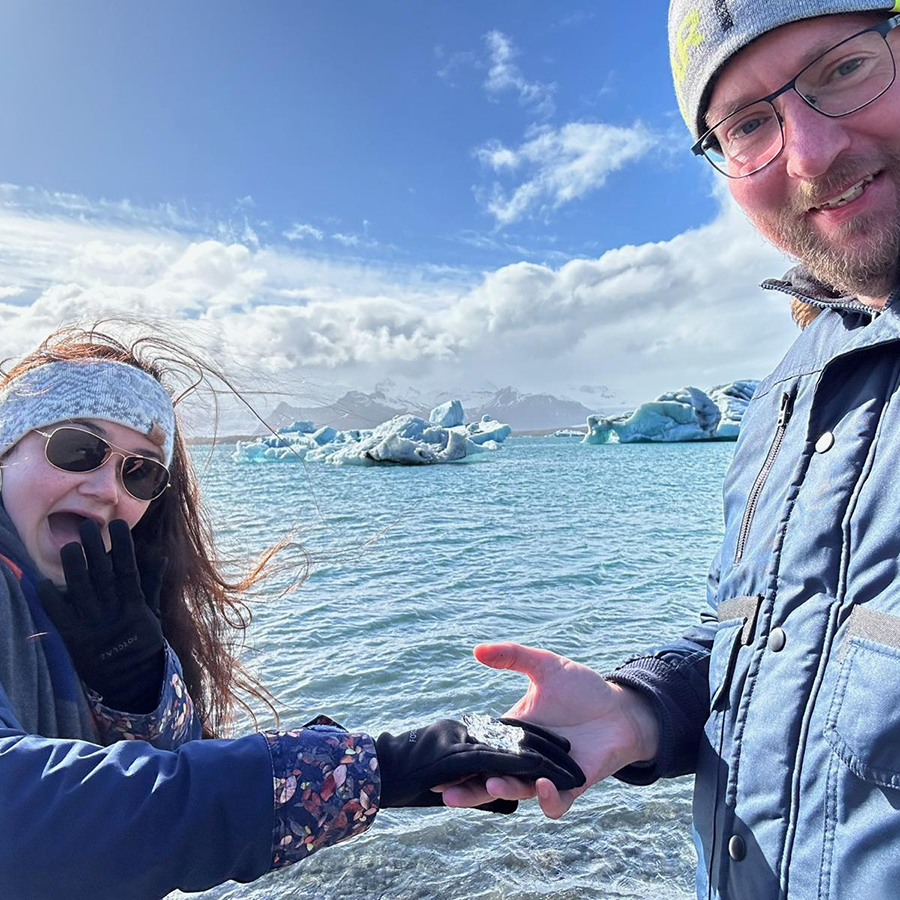
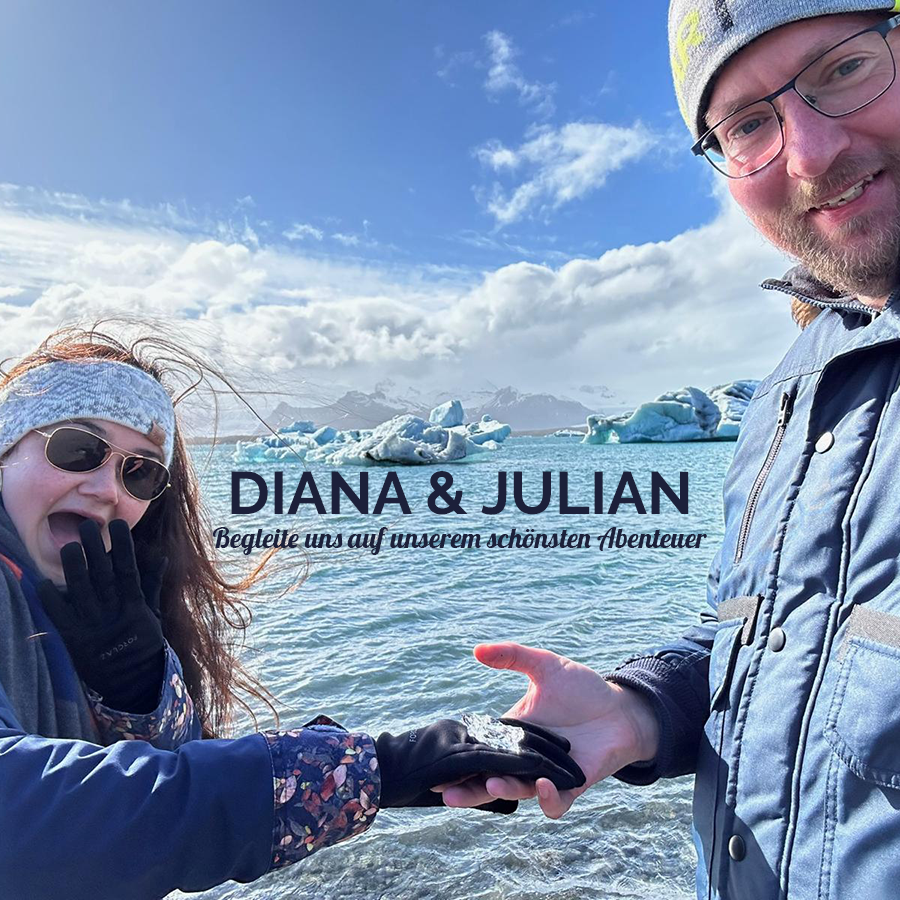
Hero: neue Bilder (desktop/tablet/mobil), HTML-Headline entfernt, aria-label ergänzt

Changed region(s): [[0.2178, 0.4978, 0.7778, 0.6222]]

diff --git a/utils/main.js b/utils/main.js
@@ -396,11 +396,9 @@ document.addEventListener('DOMContentLoaded', function () {
       document.querySelector('a[href="#geschenke"]').textContent = 'Geschenke';
       document.querySelector('a[href="#zusagen"]').textContent = 'Zusagen';
 
-      // Hero
-      const heroTitle = document.querySelector('.hero-title');
-      if (heroTitle) heroTitle.textContent = 'DIANA & JULIAN';
-      const heroSub = document.querySelector('.hero-subtitle-text');
-      if (heroSub) heroSub.textContent = 'Begleite uns auf unserem schönsten Abenteuer';
+      // Hero – aria-label aktualisieren
+      const heroEl = document.getElementById('start');
+      if (heroEl) heroEl.setAttribute('aria-label', 'Diana und Julian – Begleite uns auf unserem schönsten Abenteuer');
 
       // Geschichte – Überschrift
       const gTitle = document.querySelector('#geschichte .geschichte-title');
@@ -515,10 +513,9 @@ document.addEventListener('DOMContentLoaded', function () {
       document.querySelector('a[href="#zusagen"]').textContent = 'Confirmar';
 
       // Hero
-      const heroTitle = document.querySelector('.hero-title');
-      if (heroTitle) heroTitle.textContent = 'DIANA & JULIAN';
-      const heroSub = document.querySelector('.hero-subtitle-text');
-      if (heroSub) heroSub.textContent = 'Acompáñanos en nuestra aventura más bonita';
+      // Hero – aria-label aktualisieren
+      const heroEl = document.getElementById('start');
+      if (heroEl) heroEl.setAttribute('aria-label', 'Diana y Julian – Acompáñanos en nuestra aventura más bonita');
 
       // Geschichte – Überschrift
       const gTitle = document.querySelector('#geschichte .geschichte-title');

diff --git a/styles/main.css b/styles/main.css
@@ -436,7 +436,7 @@ img {
   width: 100vw;
   height: 100%;
   background-color: transparent;
-  background-image: url('../assets/PHOTO-2026-03-18-23-07-55.jpg');
+  background-image: url('../assets/heron_image_desktop.png');
   background-size: cover;
   background-position: center center;
   background-repeat: no-repeat;
@@ -506,7 +506,7 @@ img {
   }
 
   .hero-bg {
-    background-image: url('../assets/PHOTO-2026-03-18-23-07-55.jpg');
+    background-image: url('../assets/heron_image_desktop.png');
     background-size: cover;
     background-position: center top;
     background-repeat: no-repeat;
@@ -517,9 +517,7 @@ img {
 
 @media (min-width: 601px) and (max-width: 900px) {
   .hero-bg {
-    background-image: url('../assets/hero_image_mobil.png');
-    background-size: cover;
-    background-position: center 20%;
+    background-image: url('../assets/heron_image_tablet.png');
   }
 }
 
@@ -534,7 +532,7 @@ img {
     min-height: 120vw;
     height: 120vw;
     max-height: 120vw;
-    background-image: url('../assets/hero_image_mobil.png');
+    background-image: url('../assets/hero_image_mobil_2.png');
     background-size: cover;
     background-position: center top;
   }

diff --git a/pages/index.html b/pages/index.html
@@ -37,18 +37,8 @@
   </nav>
 
   <!-- HERO -->
-  <div class="hero" id="start">
+  <div class="hero" id="start" role="img" aria-label="Diana und Julian – Begleite uns auf unserem schönsten Abenteuer">
     <div class="hero-bg"></div>
-    <div class="hero-text">
-      <div class="geschichte-headline-strich hero-headline">
-        <span class="geschichte-title hero-title">DIANA &amp; JULIAN</span>
-        <span class="geschichte-title-2 lobster-regular hero-title-2">
-          <span class="geschichte-dots-inline hero-dots"></span>
-          <span class="hero-subtitle-text">Begleite uns auf unserem schönsten Abenteuer</span>
-          <span class="geschichte-dots-inline hero-dots"></span>
-        </span>
-      </div>
-    </div>
   </div>
 
   <!-- GESCHICHTE -->
